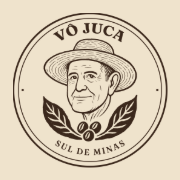
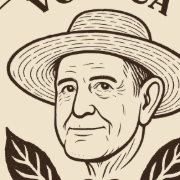
feat: o icone da aba passa a ser so' o busto do Juca, enchendo o disco
Os aneis, o nome arqueado e os ramos ocupavam a maior parte do selo e
viravam ruido no tamanho em que a aba mostra o icone. O recorte agora e'
o busto, chapeu e rosto, ampliado ate encher o disco; a aba do chapeu
sai pelos lados, como num retrato de medalha.

Nos tamanhos pequenos a arte leva um pouco de contraste (1,2 em 32px):
a gravura e' de traco fino e, reduzida, a media dos tracos puxa tudo
para o creme.

Os tres arquivos sairam do navegador em RGBA e foram regravados em
paleta de 256 cores com tabela de transparencia, que e' 1 byte por pixel
no lugar de 4: 65 KB viraram 25 KB, com erro medio de 0,3 em 255 e
alfa diferente em 15 pixels no total.

diff --git a/index.html b/index.html
@@ -7,12 +7,16 @@
     <meta name="description" content="Café 100% arábica plantado, colhido, torrado e moído na mesma propriedade, em Santa Rita do Sapucaí. Quatro gerações da mesma família." />
     <meta name="theme-color" content="#efe3cc" />
 
-    <!-- O selo recortado no próprio disco: o papel do site preenche só o
-         círculo e o canto fica transparente, então na aba ele aparece como
-         selo e não como um quadradinho bege. O fundo continua ali dentro
-         porque a tinta é escura e sumiria numa aba de tema escuro.
-         O ícone da Apple é a exceção: o iOS recorta sozinho e pinta de preto
-         o que for transparente, então esse fica quadrado, com o papel inteiro. -->
+    <!-- Só o busto do Juca, recortado de dentro do selo e ampliado até encher
+         o disco: os anéis, o nome e os ramos viravam ruído no tamanho em que a
+         aba mostra o ícone, e o que resta de reconhecível ali é o chapéu e o
+         rosto. O canto é transparente, então na aba ele aparece redondo e não
+         como um quadradinho bege; o papel continua dentro do círculo porque a
+         tinta é escura e sumiria numa aba de tema escuro.
+         Nos tamanhos pequenos a arte leva um pouco de contraste: a gravura é
+         de traço fino e, reduzida, a média dos traços puxa tudo para o creme.
+         O ícone da Apple é a exceção quadrada: o iOS recorta sozinho e pinta
+         de preto o que for transparente. -->
     <link rel="icon" type="image/png" sizes="32x32" href="/favicon-32.png" />
     <link rel="icon" type="image/png" sizes="96x96" href="/favicon-96.png" />
     <link rel="apple-touch-icon" href="/apple-touch-icon.png" />
